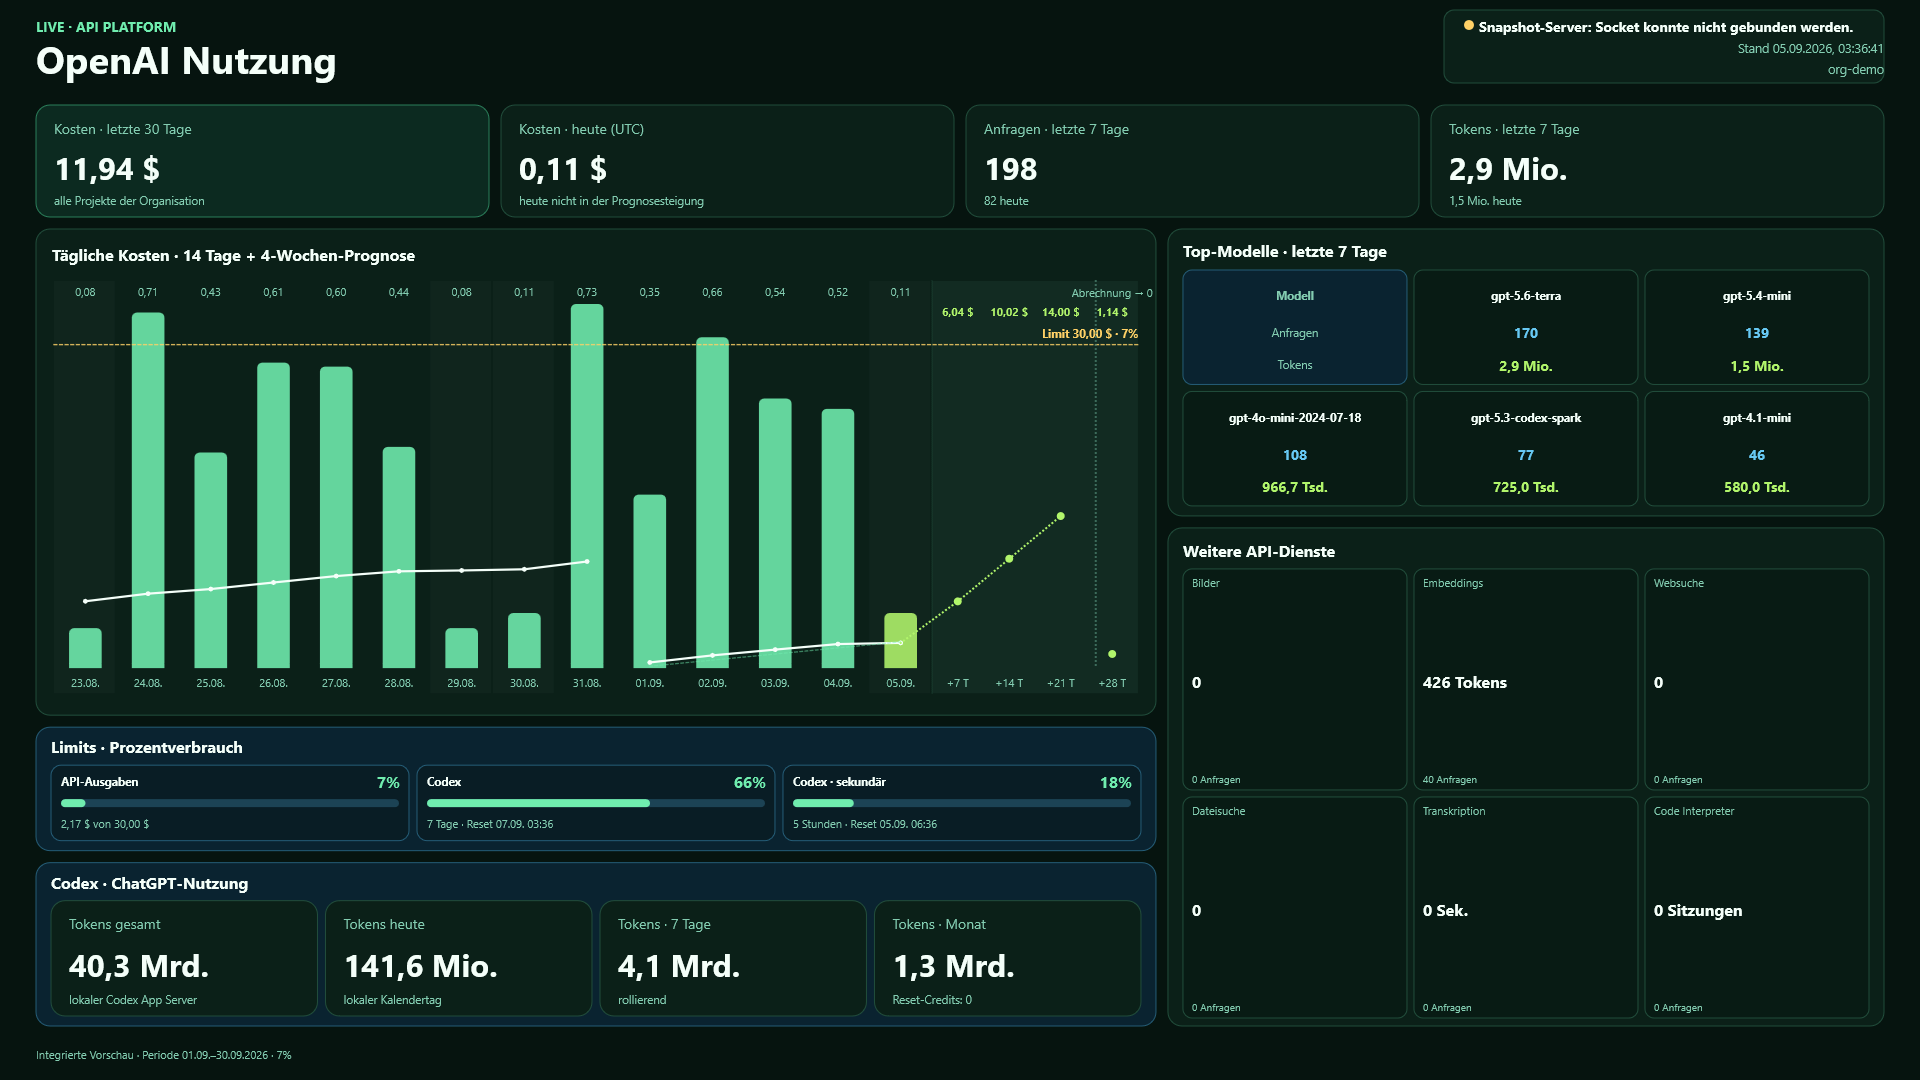
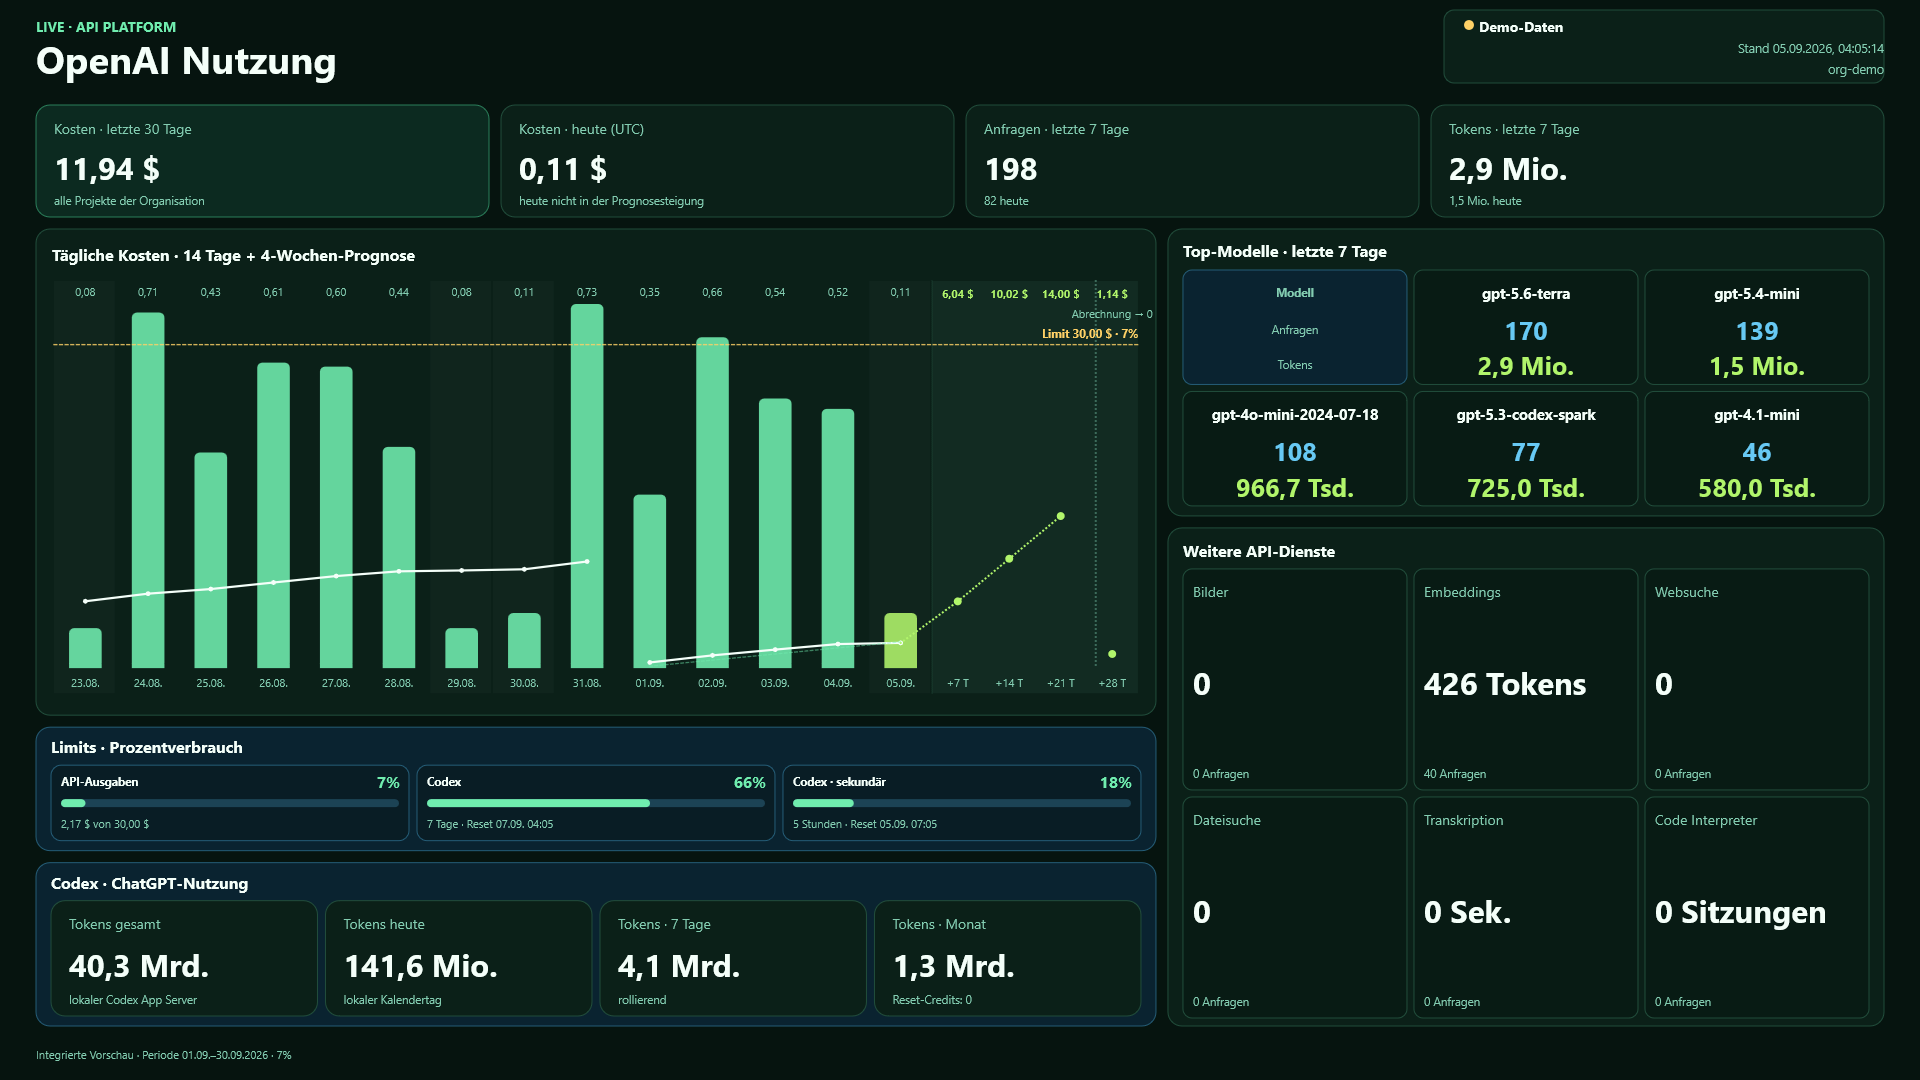
OpenAIUsageDashboard-Delphi-Source-2026-09-05-r3

diff --git a/README.md b/README.md
@@ -11,11 +11,15 @@ Browser werden zur Laufzeit nicht benötigt.
 - bis zu fünf Top-Modelle in einem kompakten 2×3-Kartenraster sowie weitere
   API-Dienste (Bilder, Embeddings, Web-/Dateisuche, Audio, Code Interpreter,
   Vector Stores und Moderation)
+- vergrößerte Modellnamen und deutlich vergrößerte Anfrage-/Tokenwerte;
+  die Zusatzdienste verwenden dieselbe Caption-/Wert-/Detail-Typografie wie die
+  Codex-Kennzahlen
 - Ausgabenlimit mit Prozentbalken und Limitlinie im Kostendiagramm
 - 14 Tagesbalken; ausschließlich der Hintergrund von Wochenenden ist abgesetzt
 - kumulierter Ist-Verbrauch und kalenderbasierte Trendberechnung; der noch
   unvollständige heutige Tag wird aus der Prognosesteigung ausgeschlossen
-- vier kompakte Prognosepunkte für +7, +14, +21 und +28 Tage
+- vier kompakte Prognosepunkte für +7, +14, +21 und +28 Tage; der prognostizierte
+  Betrag steht oben, ein Abrechnungswechsel als zweite Zeile darunter
 - sichtbarer Neustart von Ist-/Trendlinie am konfigurierten Abrechnungstag
 - lokale Codex-App-Server-Daten unter Windows: Rate-Limits, Reset-Zeitpunkte,
   Reset-Credits und Tokenstatistiken
@@ -65,6 +69,12 @@ Credential-Target: `OpenAIUsageDashboard/AdminKey/v1`. Temporäre Klartext- und
 Schlüssel-Bytepuffer werden nach Gebrauch überschrieben. Der eingebettete
 Programmschlüssel ist eine zusätzliche interne Schicht; die eigentliche
 Nutzerbindung liefert DPAPI.
+
+Delphi 13 projiziert das WinRT-OUT-Array von `CopyToByteArray` unter Win64 nicht
+ABI-sicher. Die Anwendung liest die AES-GCM-Puffer deshalb über das native
+`IBufferByteAccess`-Interface aus; der geliehene Zeiger wird sofort kopiert und
+nicht freigegeben. Damit wird insbesondere der frühere Schreibzugriff auf Adresse
+`0x000C` beim 12-Byte-Nonce vermieden.
 
 Für Codex muss die lokale Codex-CLI installiert und angemeldet sein. Die App sucht
 `codex.exe` beziehungsweise `codex.cmd`, startet `codex app-server` unsichtbar und
@@ -138,9 +148,13 @@ OtherDisplayIdleMinutes=10
 - Win64-Anwendung kompiliert; Dashboard- und Einstellungsansicht wurden als
   Vorschauen gerendert und visuell geprüft.
 - Alle gemeinsam genutzten Units einschließlich Android-Presentation-Code wurden
-  mit dem Android64-Compiler übersetzt.
+  mit dem Android64-Compiler übersetzt und zur ARM64-Shared-Library gelinkt.
 - `tests/Dashboard.Tests.dpr` prüft Prognose (inklusive Ausschluss des heutigen
   Tages), JSON-Roundtrip und authentifizierten Snapshot-Transport.
+- `tests/Secrets.Tests.dpr` prüft ohne Credential-Schreibzugriff den
+  AES-256-GCM-Rundlauf, den sicheren WinRT-Pufferzugriff sowie die Ablehnung eines
+  manipulierten Authentifizierungstags. Der optionale DPAPI-Teil benötigt einen
+  normalen interaktiven Windows-Benutzerkontext.
 - `tests/Codex.Smoke.dpr` ist ein optionaler Live-Test gegen eine lokal angemeldete
   Codex-CLI.
 
